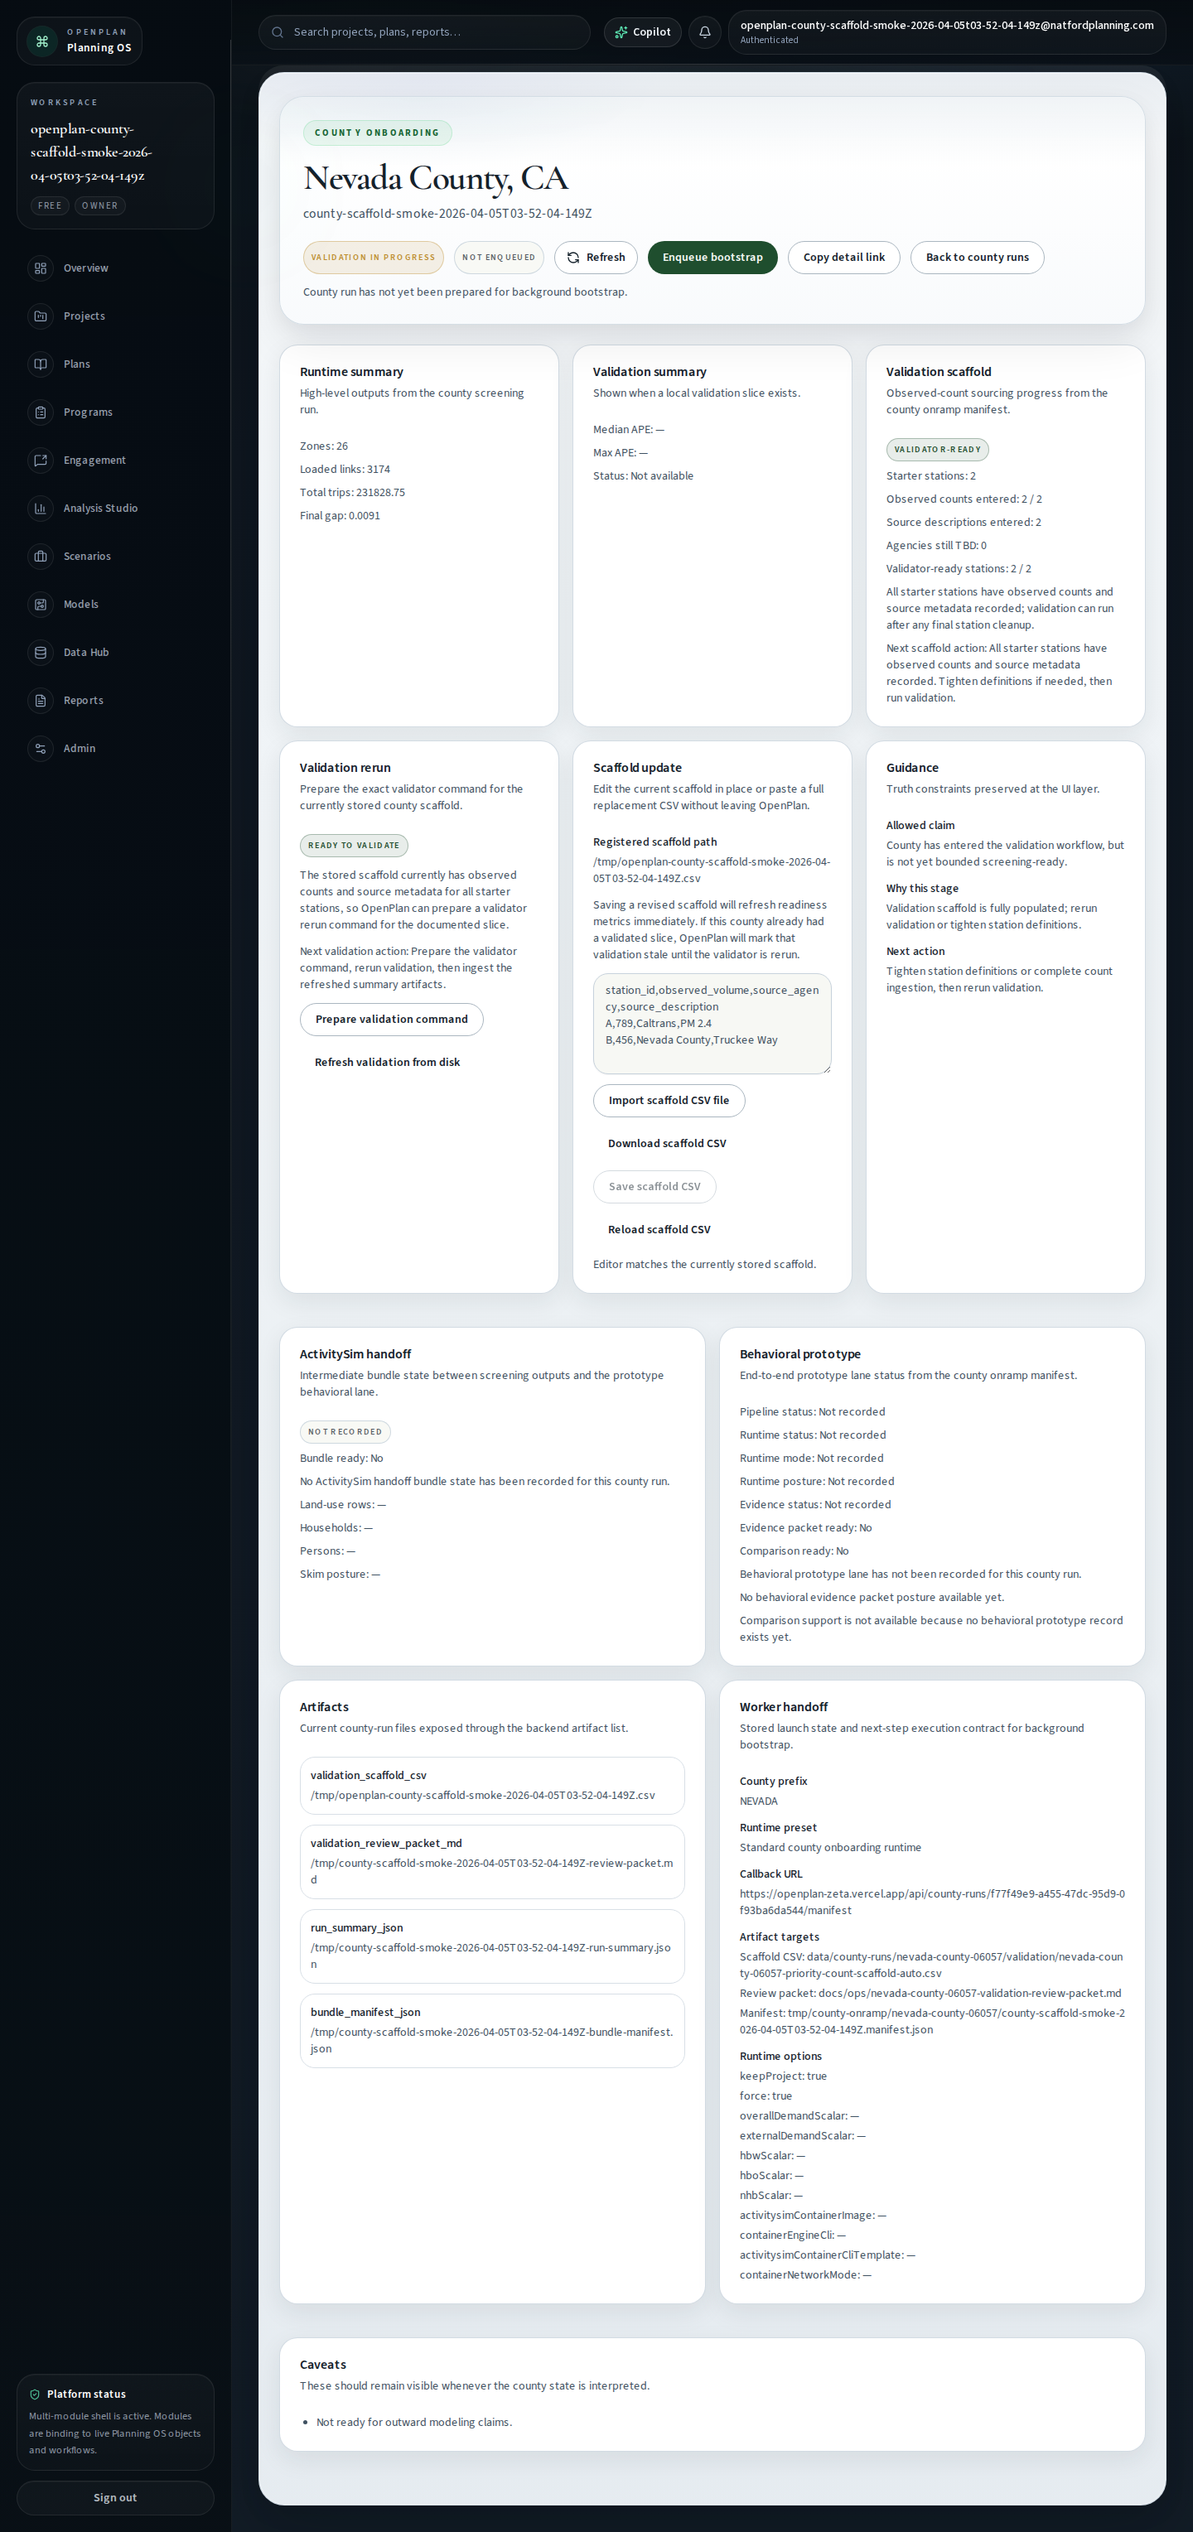
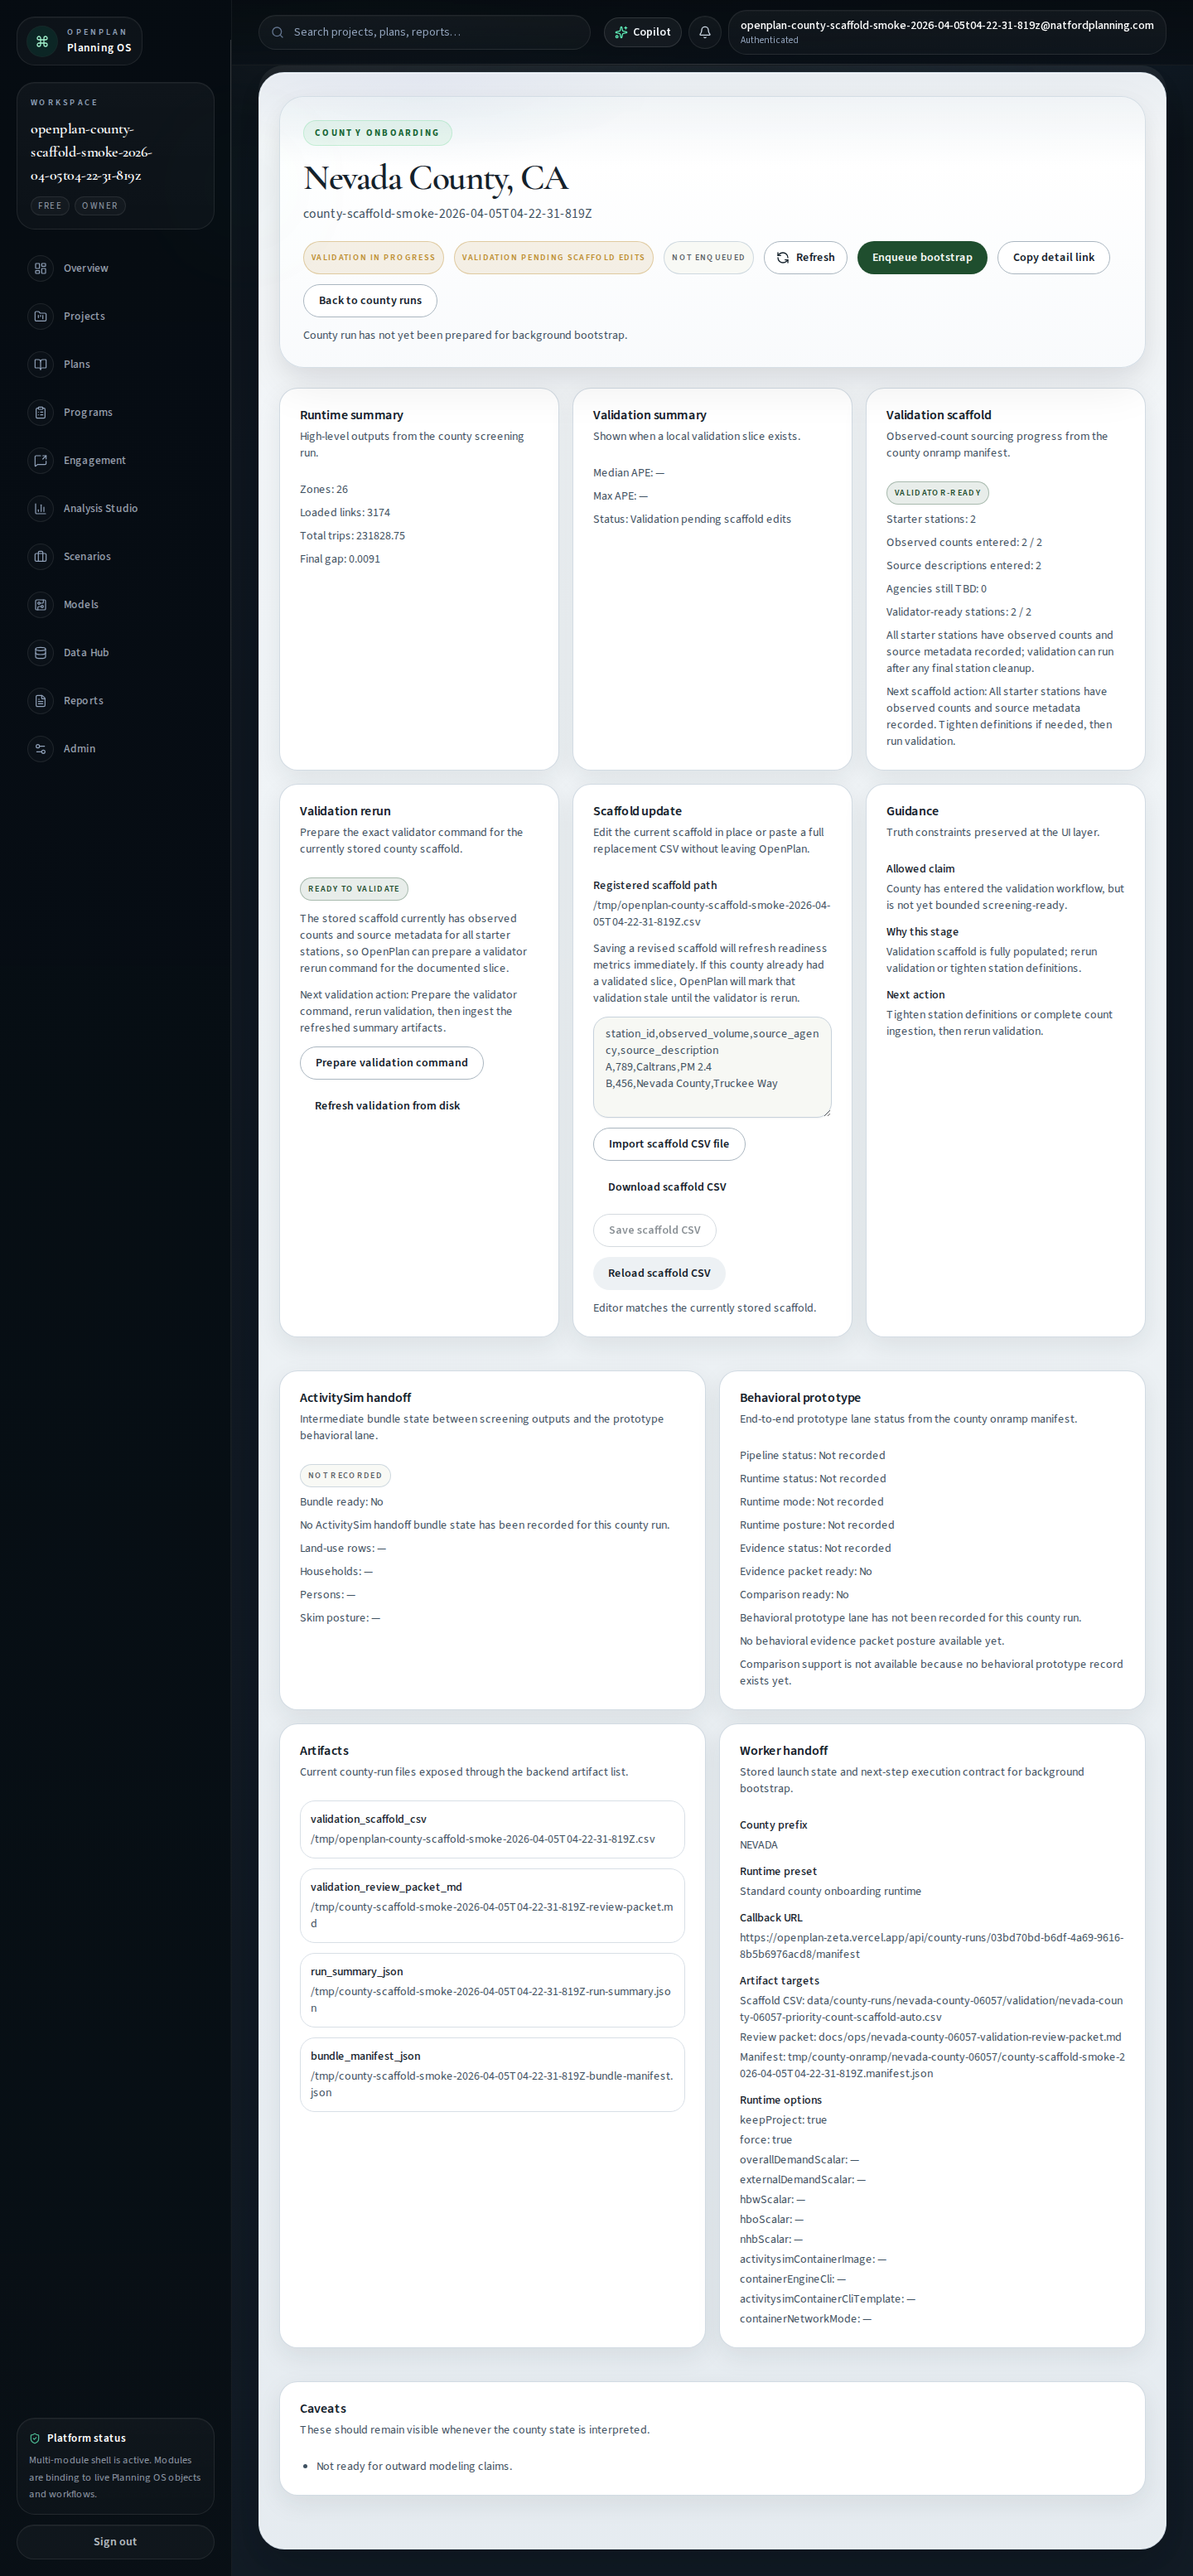
test: tighten county scaffold production proof

diff --git a/qa-harness/openplan-prod-county-scaffold-smoke.js b/qa-harness/openplan-prod-county-scaffold-smoke.js
@@ -382,9 +382,11 @@ async function main() {
       'A,789,Caltrans,PM 2.4',
       { timeout: 20000 }
     );
-    const statusVisible = await page.getByText('Validation pending scaffold edits').isVisible().catch(() => false);
+    const statusLocator = page.getByText('Validation pending scaffold edits');
+    const statusCount = await statusLocator.count().catch(() => 0);
+    const statusVisible = statusCount > 0 ? await statusLocator.first().isVisible().catch(() => false) : false;
     summary.notes.push(
-      `Validation invalidation label visible after reload: ${statusVisible}. Backend state was confirmed via production API regardless of this visual check.`
+      `Validation invalidation label match count after reload: ${statusCount}; visible: ${statusVisible}. Backend state was confirmed via production API regardless of this visual check.`
     );
     await screenshot('prod-county-scaffold-03-saved');
     summary.notes.push('Saving the imported CSV persisted the new scaffold, refreshed readiness counts, and invalidated the prior validation state.');

diff --git a/docs/ops/2026-04-05-openplan-production-county-scaffold-smoke.md b/docs/ops/2026-04-05-openplan-production-county-scaffold-smoke.md
@@ -1,11 +1,11 @@
 # OpenPlan Production County Scaffold Smoke — 2026-04-05
 
 - Base URL: https://openplan-zeta.vercel.app
-- QA user email: openplan-county-scaffold-smoke-2026-04-05T03-52-04-149Z@natfordplanning.com
-- Workspace id: 8638f1c0-6595-42f4-a357-5225c62d6d25
-- Project id: 9907dc06-c5a8-4c48-a381-3eefe72e71ed
-- County run id: f77f49e9-a455-47dc-95d9-0f93ba6da544
-- Registered scaffold path: /tmp/openplan-county-scaffold-smoke-2026-04-05T03-52-04-149Z.csv
+- QA user email: openplan-county-scaffold-smoke-2026-04-05T04-22-31-819Z@natfordplanning.com
+- Workspace id: 76e08649-74e8-4bfd-989d-4ad26854ba54
+- Project id: ab8a6023-1953-441f-9512-431ea01bbb1f
+- County run id: 03bd70bd-b6df-4a69-9616-8b5b6976acd8
+- Registered scaffold path: /tmp/openplan-county-scaffold-smoke-2026-04-05T04-22-31-819Z.csv
 
 ## Pass/Fail Notes
 - PASS: Signed into production with dedicated county scaffold smoke user.
@@ -20,7 +20,7 @@
 - PASS: Imported replacement CSV file hydrated the editor without manual paste workflow.
 - PASS: Save scaffold button disabled before click: false.
 - PASS: Save scaffold response status: 200.
-- PASS: Validation invalidation label visible after reload: false. Backend state was confirmed via production API regardless of this visual check.
+- PASS: Validation invalidation label match count after reload: 2; visible: true. Backend state was confirmed via production API regardless of this visual check.
 - PASS: Saving the imported CSV persisted the new scaffold, refreshed readiness counts, and invalidated the prior validation state.
 
 ## Assertions proven on production
@@ -40,4 +40,3 @@
 ## Notes
 - This smoke used dedicated production QA identities and records for verification.
 - QA production records and auth identities created during this pass were subsequently cleaned up; see `docs/ops/2026-04-05-openplan-production-qa-cleanup.md`.
-- `openplan-zeta.vercel.app` was explicitly rebound to the functioning `natford/openplan` production deployment before this proof run.

diff --git a/docs/ops/2026-04-05-openplan-production-qa-cleanup.md b/docs/ops/2026-04-05-openplan-production-qa-cleanup.md
@@ -1,6 +1,6 @@
 # OpenPlan Production QA Cleanup — 2026-04-05
 
-- Started: 2026-04-05T03:52:40.760Z
+- Started: 2026-04-05T04:23:02.098Z
 - Created-after filter: 2026-04-05
 - QA match rule: /qa|proof|trace|canary|debug|smoke|scenario-compare|managed-run/i
 
@@ -21,7 +21,7 @@
 - workspaces: status=200 ok=true planned=2 deleted=2
 
 ## Auth deletes
-- openplan-county-scaffold-smoke-2026-04-05t03-52-04-149z@natfordplanning.com: status=200 ok=true
+- openplan-county-scaffold-smoke-2026-04-05t04-22-31-819z@natfordplanning.com: status=200 ok=true
 
 ## Verification
 - Remaining matching workspaces: 0
